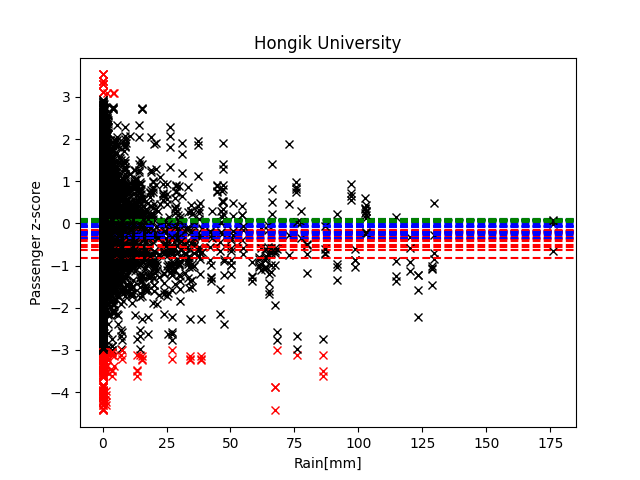
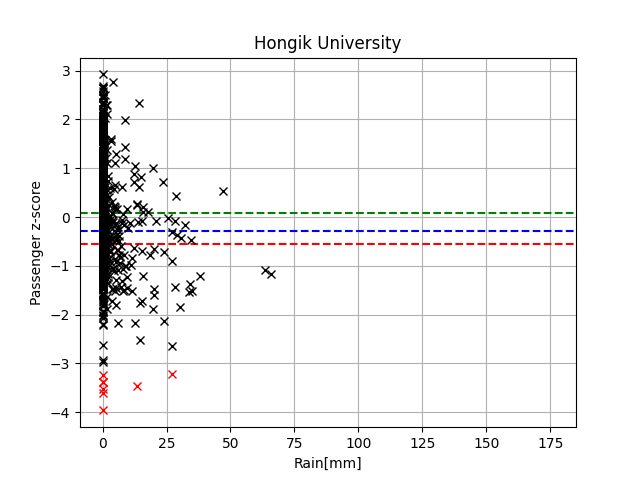
[fix] 그래프 초기화코드 추가

diff --git a/visual.py b/visual.py
@@ -23,6 +23,7 @@ def min_rain_visual(df, name):
     plt.plot(df['10분최다강수량'], df['Bording_z'], 'kx')
     plt.plot(df_out['10분최다강수량'], df_out['Bording_z'], 'rx')
     plt.savefig(name + '_10분최다강수량.png')
+    plt.cla()
 
 def hour_rain_visual(df, name):
     df, df_out = outlier(df)
@@ -40,6 +41,7 @@ def hour_rain_visual(df, name):
     plt.plot(df['1시간최다강수량'], df['Bording_z'], 'kx')
     plt.plot(df_out['1시간최다강수량'], df_out['Bording_z'], 'rx')
     plt.savefig(name + '_1시간최다강수량.png')
+    plt.cla()
 
 def day_rain_visual(df, name):
     df, df_out = outlier(df)
@@ -57,3 +59,4 @@ def day_rain_visual(df, name):
     plt.plot(df['일강수량'], df['Bording_z'], 'kx')
     plt.plot(df_out['일강수량'], df_out['Bording_z'], 'rx')
     plt.savefig(name + '_일강수량.png')
+    plt.cla()
